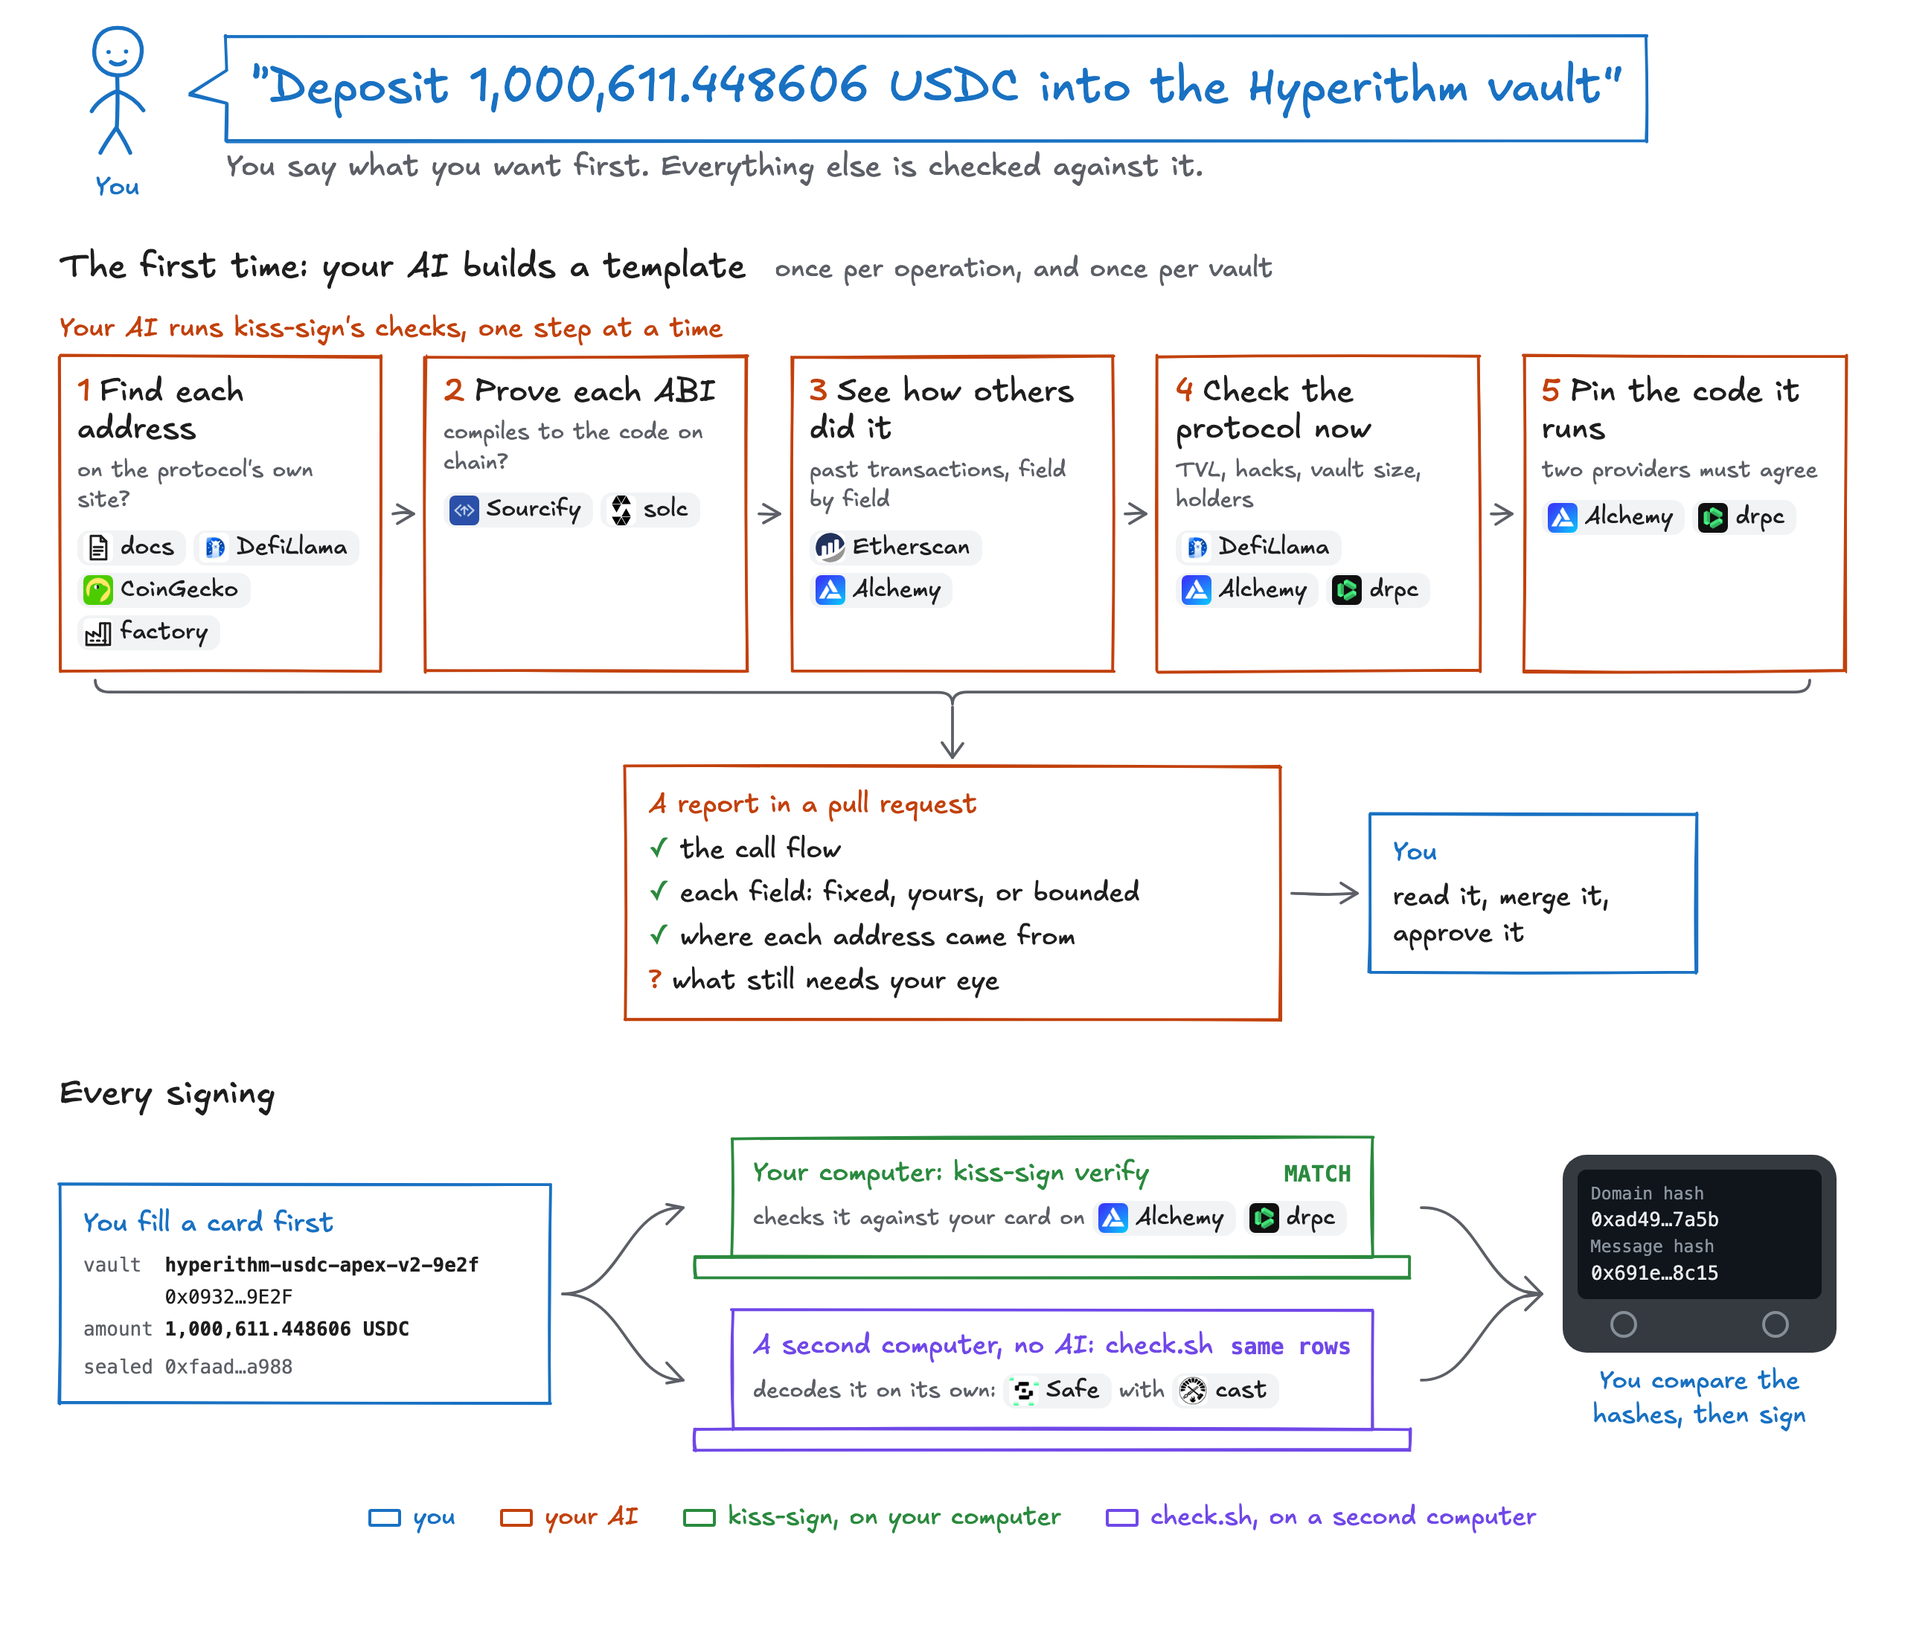
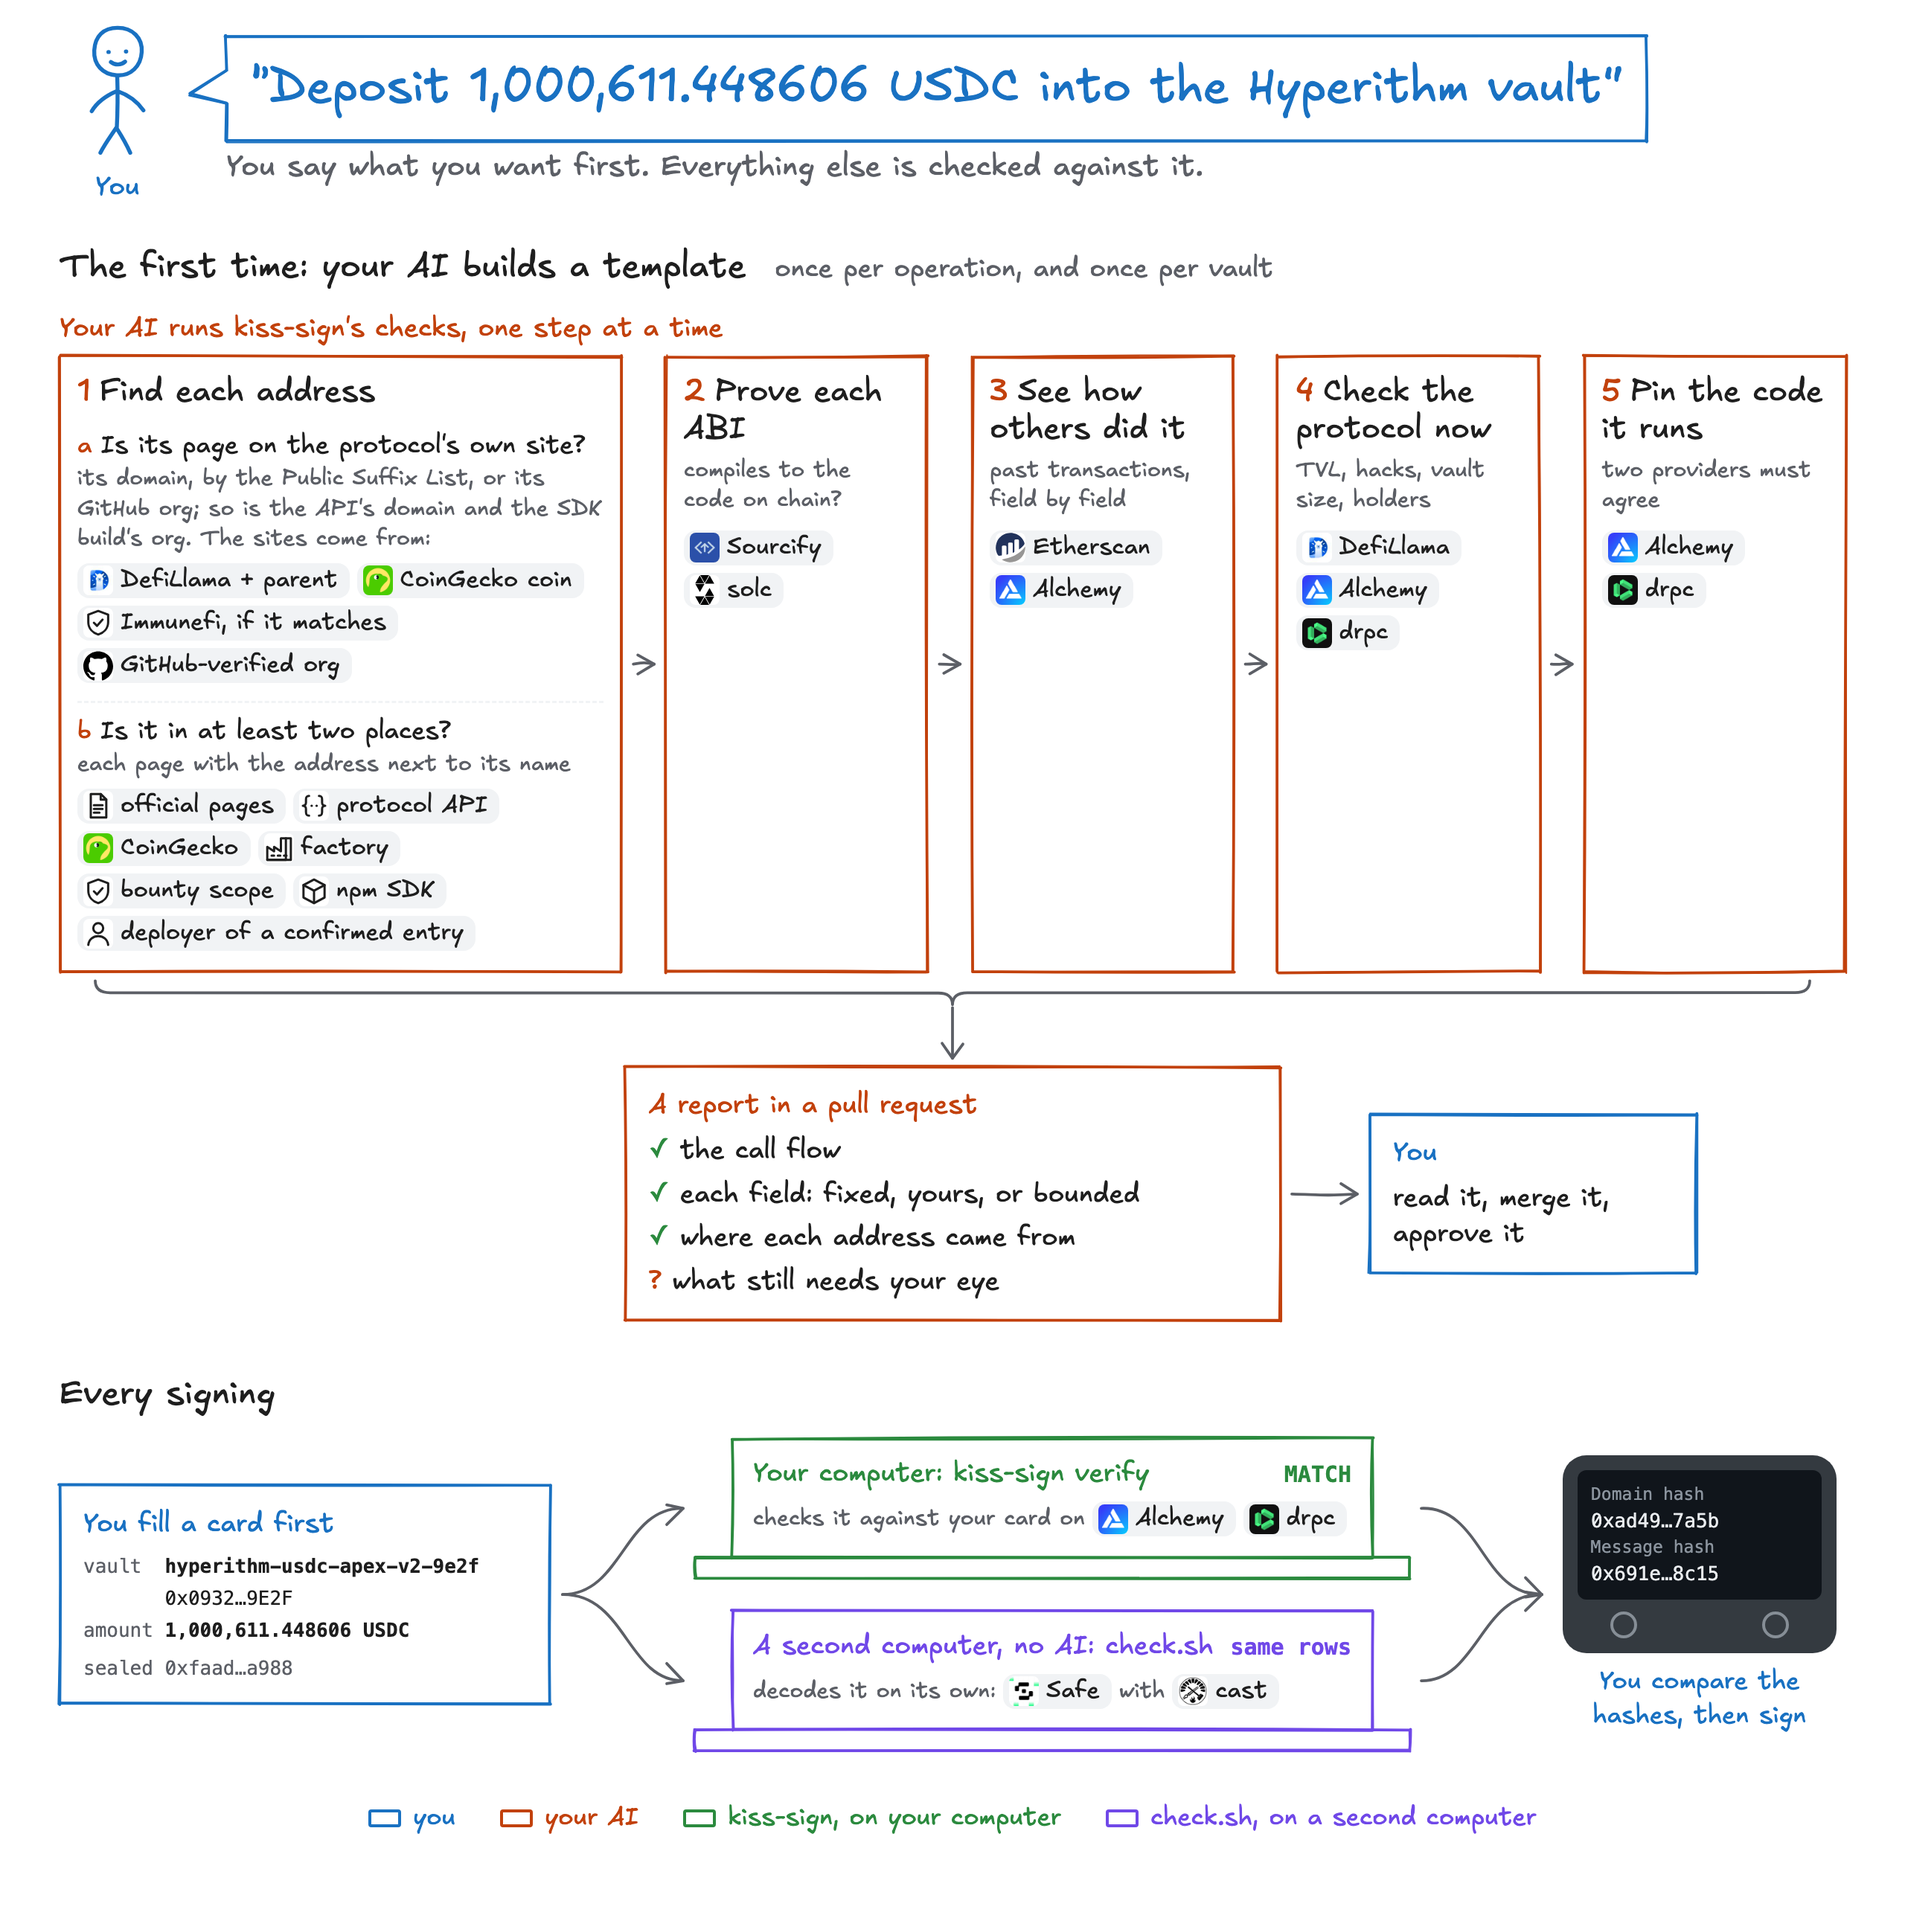
Show every confirmation place and the site check in the diagram's step 1

diff --git a/docs/diagrams/readme-overview.html b/docs/diagrams/readme-overview.html
@@ -1,6 +1,6 @@
 <!doctype html>
 <!-- Source of docs/readme/overview.png and overview-dark.png. Values come from a real run: another Safe's nonce 1566.
-     Logos are each project's own (GitHub organization avatars, Etherscan's brand asset, simple-icons; docs.svg and factory.svg drawn for this page). Font: Excalifont, OFL-1.1 (fonts/Excalifont-OFL.txt).
+     Logos are each project's own (GitHub organization avatars, Etherscan's brand asset, simple-icons; docs.svg, factory.svg, api.svg, bounty.svg, package.svg and deployer.svg drawn for this page). Font: Excalifont, OFL-1.1 (fonts/Excalifont-OFL.txt).
      Re-render with docs/diagrams/render.sh. -->
 <html lang="en">
 <head>
@@ -48,7 +48,11 @@
   .lg.plain { padding-left: 8px; }
   :root.dark .lg img.mono-logo { filter: invert(1); background: transparent; }
 
-  .chain .steps { display: grid; grid-template-columns: repeat(5, minmax(0, 1fr)); gap: 30px; margin-top: 6px; }
+  .chain .steps { display: grid; grid-template-columns: minmax(0, 2.15fr) repeat(4, minmax(0, 1fr)); gap: 30px; margin-top: 6px; }
+  .step .sub { margin-top: 8px; }
+  .step .sub + .sub { border-top: 1.5px dashed var(--chip); padding-top: 8px; }
+  .step .sub .q { font-size: 17px; }
+  .step .sub .q .n { font-size: 17px; }
   .step { padding: 12px 12px 14px; display: grid; align-content: start; gap: 4px; }
   .step .t { font-size: 21px; line-height: 1.2; }
   .step .n { color: var(--ai); margin-right: 6px; }
@@ -109,7 +113,7 @@
   <div class="chain ai" id="chain">
     <div class="who">Your AI runs kiss-sign's checks, one step at a time</div>
     <div class="steps">
-      <div class="sk step" id="s1"><div class="t"><span class="n">1</span>Find each address</div><div class="note">on the protocol's own site?</div><div class="logos"><span class="lg"><img class="mono-logo" src="logos/docs.svg" alt="">docs</span><span class="lg"><img src="logos/defillama.jpg" alt="">DefiLlama</span><span class="lg"><img src="logos/coingecko.png" alt="">CoinGecko</span><span class="lg"><img class="mono-logo" src="logos/factory.svg" alt="">factory</span></div></div>
+      <div class="sk step" id="s1"><div class="t"><span class="n">1</span>Find each address</div><div class="sub"><div class="q"><span class="n">a</span>Is its page on the protocol's own site?</div><div class="note">its domain, by the Public Suffix List, or its GitHub org; so is the API's domain and the SDK build's org. The sites come from:</div><div class="logos"><span class="lg"><img src="logos/defillama.jpg" alt="">DefiLlama + parent</span><span class="lg"><img src="logos/coingecko.png" alt="">CoinGecko coin</span><span class="lg"><img class="mono-logo" src="logos/bounty.svg" alt="">Immunefi, if it matches</span><span class="lg"><img class="mono-logo" src="logos/github.svg" alt="">GitHub-verified org</span></div></div><div class="sub"><div class="q"><span class="n">b</span>Is it in at least two places?</div><div class="note">each page with the address next to its name</div><div class="logos"><span class="lg"><img class="mono-logo" src="logos/docs.svg" alt="">official pages</span><span class="lg"><img class="mono-logo" src="logos/api.svg" alt="">protocol API</span><span class="lg"><img src="logos/coingecko.png" alt="">CoinGecko</span><span class="lg"><img class="mono-logo" src="logos/factory.svg" alt="">factory</span><span class="lg"><img class="mono-logo" src="logos/bounty.svg" alt="">bounty scope</span><span class="lg"><img class="mono-logo" src="logos/package.svg" alt="">npm SDK</span><span class="lg"><img class="mono-logo" src="logos/deployer.svg" alt="">deployer of a confirmed entry</span></div></div></div>
       <div class="sk step" id="s2"><div class="t"><span class="n">2</span>Prove each ABI</div><div class="note">compiles to the code on chain?</div><div class="logos"><span class="lg"><img src="logos/sourcify.jpg" alt="">Sourcify</span><span class="lg"><img class="mono-logo" src="logos/solidity.svg" alt="">solc</span></div></div>
       <div class="sk step" id="s3"><div class="t"><span class="n">3</span>See how others did it</div><div class="note">past transactions, field by field</div><div class="logos"><span class="lg"><img src="logos/etherscan.svg" alt="">Etherscan</span><span class="lg"><img src="logos/alchemy.png" alt="">Alchemy</span></div></div>
       <div class="sk step" id="s4"><div class="t"><span class="n">4</span>Check the protocol now</div><div class="note">TVL, hacks, vault size, holders</div><div class="logos"><span class="lg"><img src="logos/defillama.jpg" alt="">DefiLlama</span><span class="lg"><img src="logos/alchemy.png" alt="">Alchemy</span><span class="lg"><img src="logos/drpc.png" alt="">drpc</span></div></div>

diff --git a/README.md b/README.md
@@ -13,7 +13,7 @@ Signing tools today show you a transaction and ask whether it looks right. Your 
 
 <picture>
   <source media="(prefers-color-scheme: dark)" srcset="docs/readme/overview-dark.png">
-  <img src="docs/readme/overview.png" alt="kiss-sign at a glance. You say what you want. Once per operation, your AI runs kiss-sign's checks on the addresses, ABIs, past transactions, the protocol's state and the code it runs, one step at a time, writes a report, and you review and merge it. At every signing, you fill a card, kiss-sign verify checks the transaction against it on your computer, check.sh decodes the same transaction on a second computer, and you compare the hashes on your hardware wallet before signing.">
+  <img src="docs/readme/overview.png" alt="kiss-sign at a glance. You say what you want. Once per operation, your AI runs kiss-sign's checks: each address's page, API and SDK build must be on one of the protocol's sites, as DefiLlama and the protocol's CoinGecko coin list them, joined by its Immunefi program's and its GitHub-verified organization's when they match those, and each address must show up in at least two places among the official pages, the protocol's API, CoinGecko, the factory, the bug bounty's scope, the npm SDK and the deployer of an entry confirmed elsewhere. It then checks the ABIs, past transactions, the protocol's state and the code it runs, and writes a report, which you review and merge. At every signing, you fill a card, kiss-sign verify checks the transaction against it on your computer, check.sh decodes the same transaction on a second computer, and you compare the hashes on your hardware wallet before signing.">
 </picture>
 
 ## Contents
